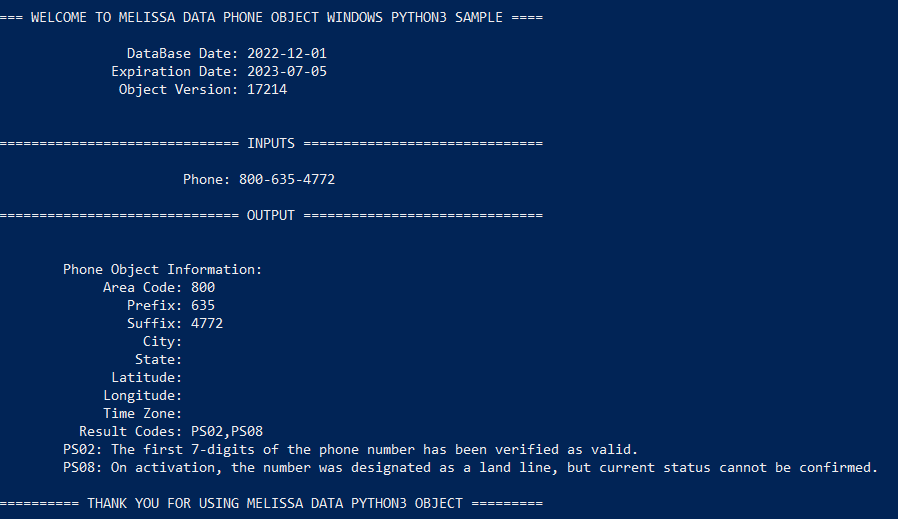
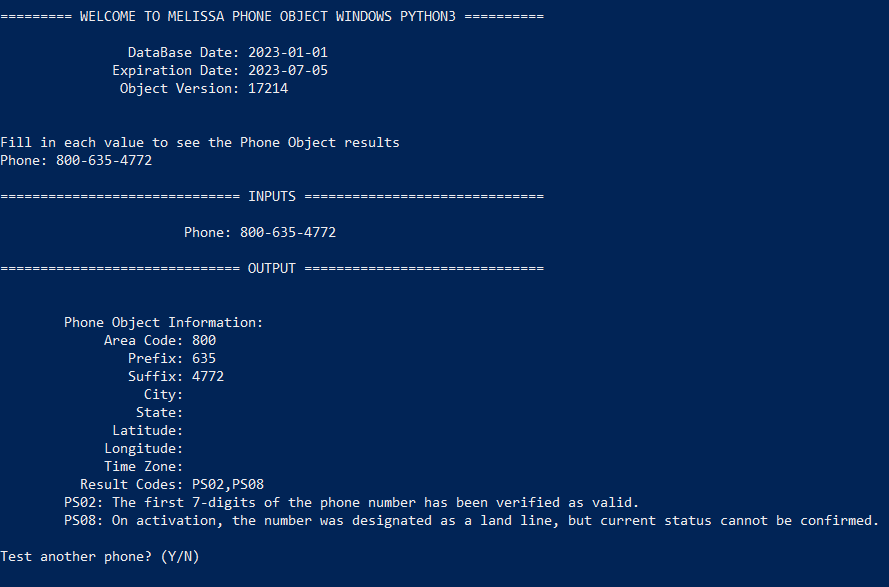
Commit Python3 code for Phone Object with release notes

diff --git a/MelissaPhoneObjectWindowsPython3/MelissaPhoneObjectWindowsPython3.py b/MelissaPhoneObjectWindowsPython3/MelissaPhoneObjectWindowsPython3.py
@@ -19,6 +19,8 @@ class PhoneObject:
 
         """
         If you see a different date than expected, check your license string and either download the new data files or use the Melissa Updater program to update your data files.  
+           
+        If 1970-00-00 is the DatabaseDate, the Phone Object was unable to reach the data files.
         """
 
         p_status = self.md_phone_obj.Initialize(data_path)
@@ -31,7 +33,7 @@ class PhoneObject:
         print(f"              Expiration Date: {self.md_phone_obj.GetLicenseExpirationDate()}")
       
         """
-        This number should match with file properties of the Melissa Data Object binary file.
+        This number should match with file properties of the Melissa Object binary file.
         If TEST appears with the build number, there may be a license key issue.
         """
         print(f"               Object Version: {self.md_phone_obj.GetBuildNumber()}\n")
@@ -42,8 +44,8 @@ class PhoneObject:
         result_codes = self.md_phone_obj.GetResults()
 
         """ 
-        ResultsCodes explain any issues phone object has with the object.
-        List of result codes for Phone object
+        ResultsCodes explain any issues Phone Object has with the object.
+        List of result codes for Phone Object
         https://wiki.melissadata.com/?title=Result_Code_Details#Phone_Object
         """
 
@@ -71,7 +73,7 @@ def parse_arguments():
     return (license, test_phone, data_path)
 
 def run_as_console(license, test_phone, data_path):
-    print("\n\n=== WELCOME TO MELISSA DATA PHONE OBJECT WINDOWS PYTHON3 SAMPLE ====\n")
+    print("\n\n========= WELCOME TO MELISSA PHONE OBJECT WINDOWS PYTHON3 ==========\n")
 
     phone_object = PhoneObject(license, data_path)
 
@@ -147,7 +149,7 @@ def run_as_console(license, test_phone, data_path):
             
               print("Invalid Response, please respond 'Y' or 'N'")
 
-    print("\n========== THANK YOU FOR USING MELISSA DATA PYTHON3 OBJECT =========\n")
+    print("\n============= THANK YOU FOR USING MELISSA PYTHON3 OBJECT ===========\n")
     
 
 

diff --git a/MelissaPhoneObjectWindowsPython3/mdPhone_pythoncode.py b/MelissaPhoneObjectWindowsPython3/mdPhone_pythoncode.py
@@ -7,9 +7,9 @@ dir = os.getcwd()
 
 
 if (os.name == 'nt'):
-  lib = ctypes.CDLL(f'{dir}/MelissaDataPhoneObjectWindowsPython3Sample/mdPhone.dll')
+  lib = ctypes.CDLL(f'{dir}/MelissaPhoneObjectWindowsPython3/mdPhone.dll')
 else:
-  lib = ctypes.CDLL('libmdPhone.so')
+  lib = ctypes.CDLL(f'{dir}/MelissaPhoneObjectLinuxPython3/libmdPhone.so')
 
 lib.mdPhoneCreate.argtypes = []
 lib.mdPhoneCreate.restype = c_void_p

diff --git a/README.md b/README.md
@@ -1,8 +1,12 @@
-# Melissa Data Phone Object Windows Python3 Sample
+# Melissa - Phone Object Windows Python3
 
 ## Purpose
 
-This is an sample of the Melissa Data Phone Object using Python3
+This code showcases the Melissa Phone Object using Python3
+
+Please feel free to copy or embed this code to your own project. Happy coding!
+
+For the latest Melissa Phone Object release notes, please visit: https://releasenotes.melissa.com/on-premise-api/phone-object/
 
 The console will ask the user for:
 
@@ -30,7 +34,7 @@ And return
 
 #### mdPhone.dll
 
-This is the c++ code of the Melissa Data Object.
+This is the c++ code of the Melissa Object.
 
 #### Data File(s)
 - mdGlobalPhone.dat
@@ -44,15 +48,30 @@ These instructions will get you a copy of the project up and running on your loc
 
 This project is compatible with Python3
 
-#### Install the Python3
+#### Install Python3
 Before starting, make sure that Python3 has been correctly installed on your machine and your environment paths are configured. 
+
+You can download Python here: 
+https://www.python.org/downloads/
+
+To set up your Path to correctly to use the python3 command, execute the following steps:
+1) Run Powershell as an administrator 
+2) Execute the command: 
+`New-Item -ItemType SymbolicLink -Path "Link" -Target "Target"`
+
+    where "Target" is the path to py.exe (by default this should be "C:\Windows\py.exe")\
+    and "Link" is the path to py.exe, but "py.exe" is replaced with "python3.exe"\
+    For Example:\
+    `New-Item -ItemType SymbolicLink -Path "C:\Windows\python3.exe" -Target "C:\Windows\py.exe"`
+
 If you are unsure, you can check by opening a command prompt window and typing the following:
 `python3 --version`
 
- ![alt text](/screenshots/python_version.PNG)
+![alt text](/screenshots/python_version.PNG)
 
 If you see the version number then you have installed Python3 and set up your environment paths correctly!
 
+----------------------------------------
 
 #### Set up Powershell settings
 
@@ -86,7 +105,7 @@ Melissa Updater is a CLI application allowing the user to update their Melissa a
 	- It will handle all of the data download/path and dll(s) for you. 
 2.  If you already have the latest DQS Release (ZIP), you can find the data file(s) and dll(s) in there
 	- Use the location of where you copied/installed the data and update the "$DataPath" variable in the powershell script.
-	- Copy all the dll(s) mentioned above into the `MelissaDataPhoneObjectWindowsPython3Sample` project folder.
+	- Copy all the dll(s) mentioned above into the `MelissaPhoneObjectWindowsPython3` project folder.
 	
 ----------------------------------------
 
@@ -96,31 +115,31 @@ Parameters:
  	
   This is convenient when you want to get results for a specific phone number in one run instead of testing multiple phone numbers in interactive mode.
 
-- -license (optional): a license string to test the phone object
+- -license (optional): a license string to test the Phone Object
 - -quiet (optional): add to the command if you do not want to get any console output from the Melissa Updater
 
 When you have modified the script to match your data location, let's run the script. There are two modes:
 - Interactive 
 
-	The script will prompt the user for a phone number, then use the provided number to test Phone object. For example:
+	The script will prompt the user for a phone number, then use the provided number to test Phone Object. For example:
 	```
-	$ .\MelissaDataPhoneObjectWindowsPython3Sample.ps1
+	$ .\MelissaPhoneObjectWindowsPython3.ps1
 	```
     For quiet mode:
     ```
-    $ .\MelissaDataPhoneObjectWindowsPython3Sample.ps1 -quiet
+    $ .\MelissaPhoneObjectWindowsPython3.ps1 -quiet
     ```
 - Command Line 
 
-	You can pass a phone number in ```-phone``` parameter and a license string in ```-license``` parameter to test Phone object. For example:
+	You can pass a phone number in ```-phone``` parameter and a license string in ```-license``` parameter to test Phone Object. For example:
 	```
-    $ .\MelissaDataPhoneObjectWindowsPython3Sample.ps1 -phone "800-635-4772" 
-    $ .\MelissaDataPhoneObjectWindowsPython3Sample.ps1 -phone "800-635-4772" -license "<your_license_string>"
+    $ .\MelissaPhoneObjectWindowsPython3.ps1 -phone "800-635-4772" 
+    $ .\MelissaPhoneObjectWindowsPython3.ps1 -phone "800-635-4772" -license "<your_license_string>"
     ```
 	For quiet mode:
     ```
-    $ .\MelissaDataPhoneObjectWindowsPython3Sample.ps1 -phone "800-635-4772" -quiet
-    $ .\MelissaDataPhoneObjectWindowsPython3Sample.ps1 -phone "800-635-4772" -license "<your_license_string>" -quiet
+    $ .\MelissaPhoneObjectWindowsPython3.ps1 -phone "800-635-4772" -quiet
+    $ .\MelissaPhoneObjectWindowsPython3.ps1 -phone "800-635-4772" -license "<your_license_string>" -quiet
     ```
 This is the expected output from a successful setup for interactive mode:
 
@@ -129,7 +148,7 @@ This is the expected output from a successful setup for interactive mode:
     
 ## Troubleshooting
 
-Troubleshooting for errors found while running your sample program.
+Troubleshooting for errors found while running your program.
 
 ### Errors:
 
@@ -144,7 +163,7 @@ Troubleshooting for errors found while running your sample program.
 ## Contact Us
 
 For free technical support, please call us at 800-MELISSA ext. 4
-(800-635-4772 ext. 4) or email us at tech@MelissaData.com.
+(800-635-4772 ext. 4) or email us at tech@melissa.com.
 
-To purchase this product, contact Melissa Data sales department at
+To purchase this product, contact Melissa sales department at
 800-MELISSA ext. 3 (800-635-4772 ext. 3).

diff --git a/LICENSE.md b/LICENSE.md
@@ -1,0 +1,21 @@
+MIT License
+
+Copyright (c) Melissa Data Corporation
+
+Permission is hereby granted, free of charge, to any person obtaining a copy
+of this software and associated documentation files (the "Software"), to deal
+in the Software without restriction, including without limitation the rights
+to use, copy, modify, merge, publish, distribute, sublicense, and/or sell
+copies of the Software, and to permit persons to whom the Software is
+furnished to do so, subject to the following conditions:
+
+The above copyright notice and this permission notice shall be included in all
+copies or substantial portions of the Software.
+
+THE SOFTWARE IS PROVIDED "AS IS", WITHOUT WARRANTY OF ANY KIND, EXPRESS OR
+IMPLIED, INCLUDING BUT NOT LIMITED TO THE WARRANTIES OF MERCHANTABILITY,
+FITNESS FOR A PARTICULAR PURPOSE AND NONINFRINGEMENT. IN NO EVENT SHALL THE
+AUTHORS OR COPYRIGHT HOLDERS BE LIABLE FOR ANY CLAIM, DAMAGES OR OTHER
+LIABILITY, WHETHER IN AN ACTION OF CONTRACT, TORT OR OTHERWISE, ARISING FROM,
+OUT OF OR IN CONNECTION WITH THE SOFTWARE OR THE USE OR OTHER DEALINGS IN THE
+SOFTWARE.
